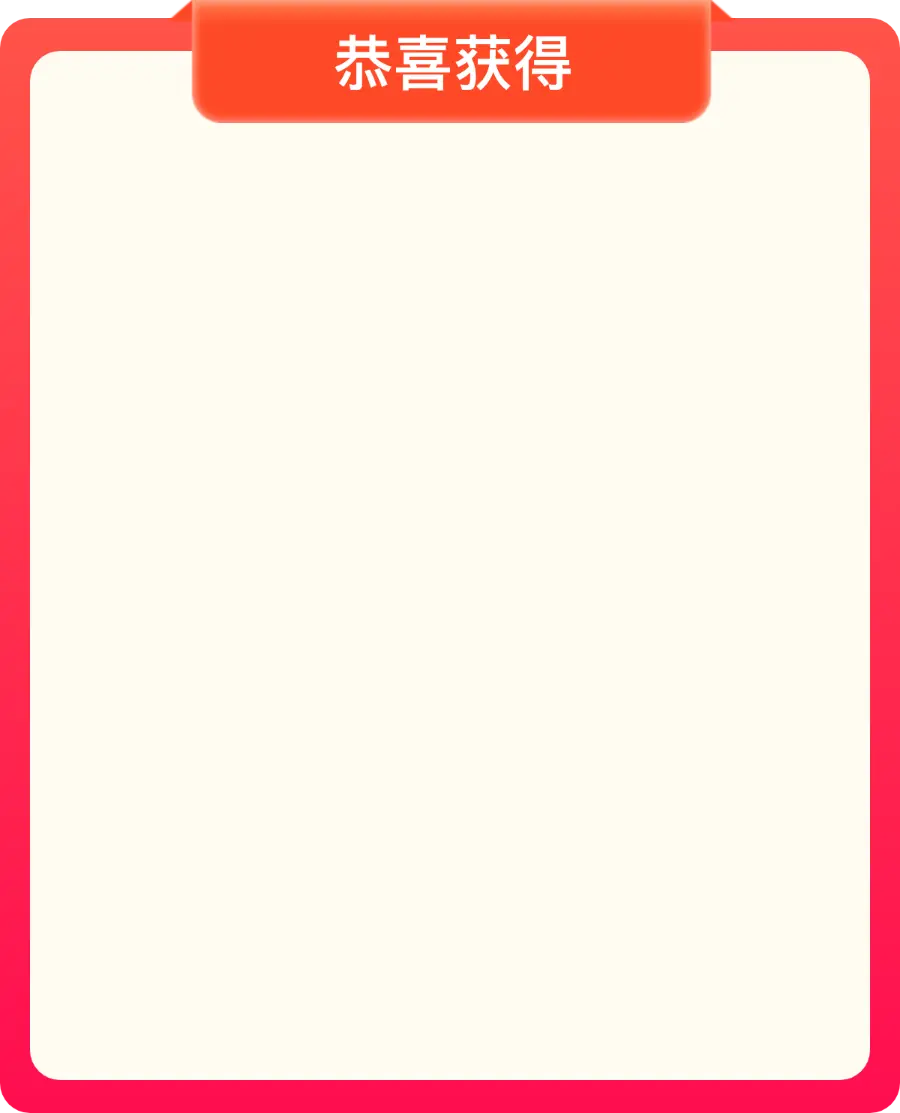
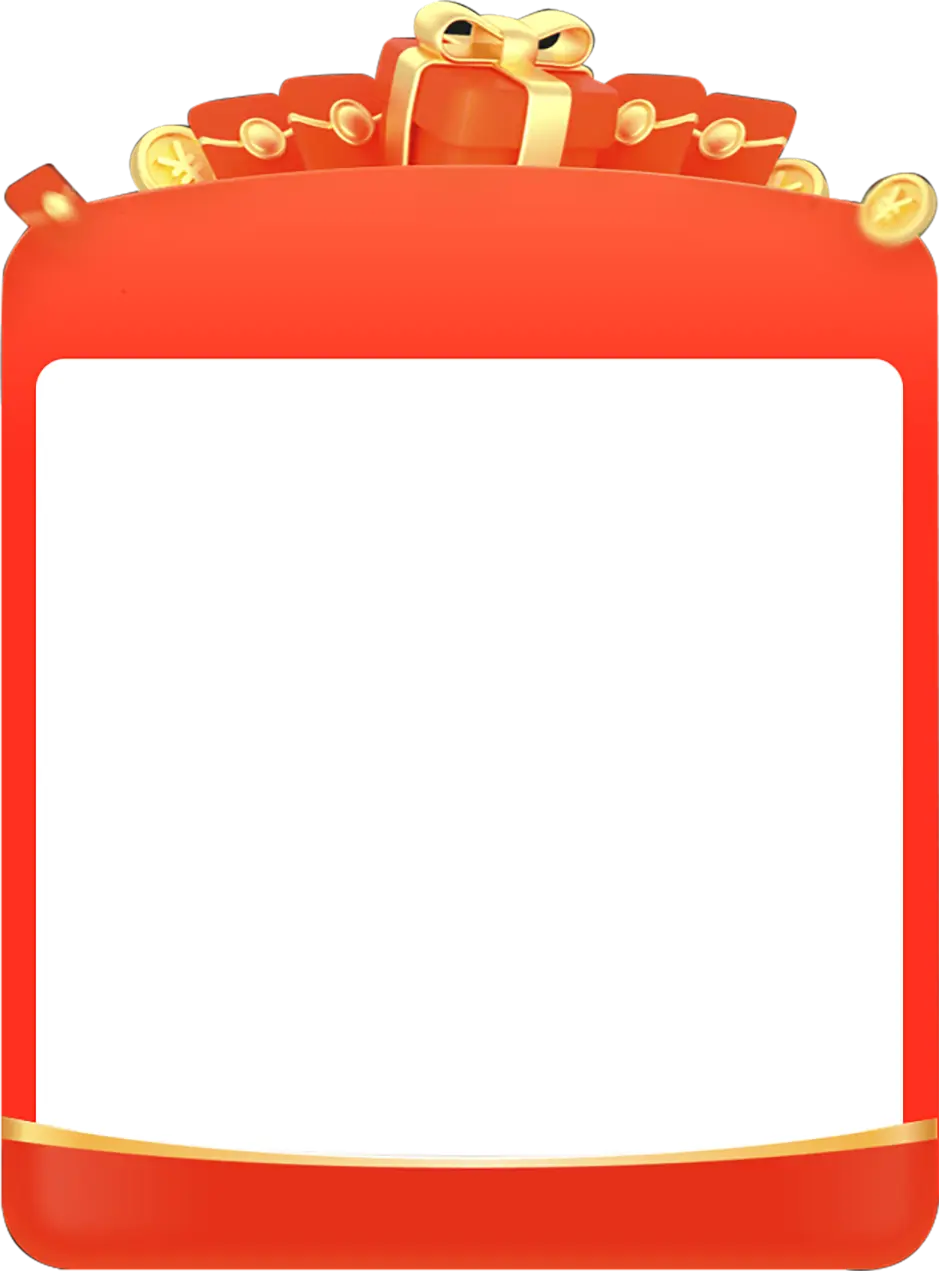
1、ui调整；

diff --git a/lib/ui/my/invite_new_members/invite_new_members_activity_page.dart b/lib/ui/my/invite_new_members/invite_new_members_activity_page.dart
@@ -66,7 +66,7 @@ class _InviteNewMembersActivityPageState extends State<InviteNewMembersActivityP
   }
 
   Widget $BodyView() {
-    final startTop = AppSize.safeTop + (AppSize.appBar - 24) / 2.0;
+    final startTop = AppSize.safeTop + (AppSize.appBar - 24) / 2.0 + 25;
     Widget child = Stack(
       alignment: Alignment.center,
       children: [
@@ -91,18 +91,43 @@ class _InviteNewMembersActivityPageState extends State<InviteNewMembersActivityP
           right: 32,
           height: 60,
           bottom: AppSize.safeBottom + 26,
-          child: XOutlinedBtn(
-            label: '邀请好友获得红包',
-            textStyle: const TextStyle(fontSize: 28, fontWeight: fw$Regular),
-            color: const Color(0xFFFE4A27),
-            side: const BorderSide(color: Color(0xFFFFF3A5), width: 2.0),
-            onTap: () => onItemClick('邀请好友'),
+          child: GestureDetector(
+            onTap: () {
+              onItemClick('邀请好友');
+            },
+            child: Container(
+              width: 321,
+              height: 71,
+              decoration: BoxDecoration(
+                image: DecorationImage(
+                  fit: BoxFit.fill,
+                  image: AssetImage(IMG.format('my/open_btn'))
+                )
+              ),
+              alignment: Alignment.center,
+              child: Text(
+                "邀请好友获得红包",
+                textAlign: TextAlign.center,
+                style: TextStyle(
+                  fontSize: 28,
+                  color: AppPalette.txtWhite,
+                  fontWeight: FontWeight.bold,
+                ),
+              ),
+            ),
           ),
         ),
         Positioned(
           bottom: AppSize.safeBottom + 26 + 60 + 17,
           child: Obx(() {
-            return XText('剩余红包次数:${remainingRedPacketCountRx.value}', style: const TextStyle(fontSize: 12, color: AppPalette.c6, fontWeight: fw$Regular),);
+            return XText(
+              '剩余红包次数:${remainingRedPacketCountRx.value}',
+              style: const TextStyle(
+                fontSize: 12,
+                color: Color(0xFFFF306A),
+                fontWeight: fw$Bold
+              ),
+            );
           }),
         ),
         Positioned(
@@ -112,12 +137,38 @@ class _InviteNewMembersActivityPageState extends State<InviteNewMembersActivityP
           bottom: AppSize.safeBottom + 26 + 60 + 34,
           child: Obx(() {
             bool canOpen = remainingRedPacketCountRx.value > 0;
-            return XOutlinedBtn(
-              label: '拆红包',
-              textStyle: TextStyle(fontSize: 28, color: canOpen ? Colors.white : AppPalette.c9, fontWeight: fw$Regular),
-              color: canOpen ? const Color(0xFFFE4A27) : AppPalette.cc,
-              side: BorderSide(color: canOpen ? const Color(0xFFFFF3A5) : AppPalette.cc, width: 2.0),
-              onTap: () {if (canOpen) onItemClick('拆红包');},
+
+            return GestureDetector(
+              onTap: () {
+                if(Env.isDebug) {
+                  onItemClick('拆红包');
+                  return;
+                }
+                if(!canOpen) {
+                  return;
+                }
+                onItemClick('拆红包');
+              },
+              child: Container(
+                width: 321,
+                height: 71,
+                decoration: BoxDecoration(
+                  image: DecorationImage(
+                    fit: BoxFit.fill,
+                    image: AssetImage(IMG.format(canOpen ? 'my/open_btn' : "my/open_disable"))
+                  )
+                ),
+                alignment: Alignment.center,
+                child: Text(
+                  "拆红包",
+                  textAlign: TextAlign.center,
+                  style: TextStyle(
+                    fontSize: 28,
+                    color: AppPalette.txtWhite,
+                    fontWeight: FontWeight.bold,
+                  ),
+                ),
+              ),
             );
           })
         ),
@@ -160,6 +211,10 @@ class _InviteNewMembersActivityPageState extends State<InviteNewMembersActivityP
           barrierColor: const Color(0x80000000),
           child: const InviteNewMembersMyRewardListSheet(listType: 1,),
           direction: Get.isLandscape ? SheetOrientation.right : SheetOrientation.bottom,
+          decoration: ShapeDecoration(
+            color: Colors.transparent,
+            shape: XRectangleBorder(borderRadius: AppBorderRadius.t12),
+          )
         );
         break;
       case '我的邀请':
@@ -167,9 +222,17 @@ class _InviteNewMembersActivityPageState extends State<InviteNewMembersActivityP
           barrierColor: const Color(0x80000000),
           child: const InviteNewMembersMyRewardListSheet(listType: 2,),
           direction: Get.isLandscape ? SheetOrientation.right : SheetOrientation.bottom,
+          decoration: ShapeDecoration(
+            color: Colors.transparent,
+            shape: XRectangleBorder(borderRadius: AppBorderRadius.t12),
+          )
         );
         break;
       case '拆红包':
+        if(Env.isDebug) {
+          await OpenRedPacketResultDialog.show("111", "");
+          return;
+        }
         var result = await Api.Activity.openEnvelope();
         var giftName = result["name"];
         var giftImageUrl = result["image"];
@@ -195,6 +258,10 @@ class _InviteNewMembersActivityPageState extends State<InviteNewMembersActivityP
   ///
   void refreshLeftOpenCount() async {
     final leftOpenTime = await Api.Activity.queryLeftOpenCount();
+    if(Env.isDebug) {
+      remainingRedPacketCountRx(10);
+      return;
+    }
     remainingRedPacketCountRx(leftOpenTime["count"]);
   }
 }

diff --git a/lib/ui/my/invite_new_members/open_redpacket_result_dialog.dart b/lib/ui/my/invite_new_members/open_redpacket_result_dialog.dart
@@ -29,39 +29,76 @@ class OpenRedPacketResultDialog extends StatelessWidget {
           child: Image.asset(IMG.format('my/pop_gongxihuode_result'), scale: 3),
         ),
         Positioned(
-          top: 81,
+          top: 165,
           child: Obx(() {
-            return NetImage(giftImageName.value, width: 113, height: 86);
+            return NetImage(giftImageName.value, width: 126, height: 126);
           }),
         ),
         Positioned(
-          top: 81 + 86 + 20,
+          top: 309,
           child: Obx(() {
-            return XText(giftName.value, style: TextStyle(fontSize: 16, color: Colors.black, fontWeight: fw$Regular),);
+            return XText(giftName.value, style: TextStyle(fontSize: 24, color: Color(0xFFFF0000), fontWeight: fw$Regular),);
           })
         ),
+
         Positioned(
-          bottom: 36,
-          child: XTextBtn(
-            label: '收下了',
-            width: 140,
-            height: 34,
-            color: const Color(0xFFFE4A27),
-            textStyle: const TextStyle(fontSize: 16, color: Colors.white),
-            onTap: () => onItemClick('收下了'),
-          )
-        ),
-        Positioned(
-            bottom: 36 + 48,
-            child: XTextBtn(
-              label: '再来一次',
-              width: 140,
-              height: 34,
-              color: const Color(0xFFFE4A27),
-              textStyle: const TextStyle(fontSize: 16, color: Colors.white),
-              onTap: () => onItemClick('再来一次'),
-            )
-        ),
+          top: 439,
+          child: Row(
+            children: [
+              GestureDetector(
+                onTap: () {
+                  onItemClick('再来一次');
+                },
+                child: Expanded(
+                  child: Container(
+                    width: 158,
+                    height: 50,
+                    padding: EdgeInsets.only(bottom: 7),
+                    decoration: BoxDecoration(
+                        image: DecorationImage(
+                            fit: BoxFit.fill,
+                            image: AssetImage(IMG.format('my/invite_button_1'))
+                        )
+                    ),
+                    alignment: Alignment.center,
+                    child: Text(
+                      "再来一次",
+                      textAlign: TextAlign.center,
+                      style: TextStyle(fontSize: 20, color: Colors.white),
+                    ),
+                  ),
+                ),
+              ),
+
+              SizedBox(width: 5,),
+
+              GestureDetector(
+                onTap: () {
+                  onItemClick('收下了');
+                },
+                child: Expanded(
+                  child: Container(
+                    width: 158,
+                    height: 50,
+                    padding: EdgeInsets.only(bottom: 7),
+                    decoration: BoxDecoration(
+                        image: DecorationImage(
+                            fit: BoxFit.fill,
+                            image: AssetImage(IMG.format('my/invite_button_1'))
+                        )
+                    ),
+                    alignment: Alignment.center,
+                    child: Text(
+                      "收下了",
+                      textAlign: TextAlign.center,
+                      style: TextStyle(fontSize: 20, color: Colors.white),
+                    ),
+                  ),
+                ),
+              ),
+            ],
+          ),
+        )
       ],
     );
 

diff --git a/lib/ui/my/invite_new_members/invite_new_members_myrewardlist_sheet.dart b/lib/ui/my/invite_new_members/invite_new_members_myrewardlist_sheet.dart
@@ -51,7 +51,7 @@ class _InviteNewMembersMyRewardListSheetState extends State<InviteNewMembersMyRe
               ),
           ],
         ),
-        Spacing.h4,
+        Spacing.h12,
         Expanded(child: ActivityDataView(82, widget.listType),),
       ],
     );
@@ -70,6 +70,7 @@ class _InviteNewMembersMyRewardListSheetState extends State<InviteNewMembersMyRe
       alignment: Alignment.center,
       children: [
         Container(
+          margin: EdgeInsets.symmetric(horizontal: 5),
             height: AppSize.safeBottom + 368,
             decoration: const ShapeDecoration(
               shape: XRectangleBorder(borderRadius: AppBorderRadius.t12),
@@ -82,11 +83,11 @@ class _InviteNewMembersMyRewardListSheetState extends State<InviteNewMembersMyRe
             child: child
         ),
         Positioned(
-          top: -6,
+          top: 10,
           child: Image.asset(IMG.format('my/invite_new_members_sheet_header'), scale: 3),
         ),
         Positioned(
-          top: 0,
+          top: 15,
           child: XText(headerTitle, style: const TextStyle(fontSize: 20, color: Colors.white, fontWeight: fw$SemiBold),),
         ),
       ],
@@ -139,23 +140,35 @@ class _ItemView extends StatelessWidget {
   Widget build(BuildContext context) {
     // final uid = data['uid'];
     // final nuid = Int64(data['role_id']);
-    TextStyle textStyle = const TextStyle(fontSize: 14, color: Colors.black, fontWeight: fw$Regular);
+    TextStyle textStyle = const TextStyle(fontSize: 14, color: AppPalette.txtDark, fontWeight: fw$Regular);
     String value1 = listType == 1 ? data["prize_name"] : data["invite_name"];
-    String value2 = listType == 1 ? data["prize_source"] : data["invite_status"];
-    int value3 = listType == 1 ? data["acquire_at"] : data["register_at"];
+    String value2 = listType == 1 ? data["prize_source"] : DateFormat("yyyy/MM/dd/hh:mm").formatEpoch(data["register_at"]);
+    String value3 = listType == 1 ? DateFormat("yyyy/MM/dd/hh:mm").formatEpoch(data["acquire_at"]) : data["invite_status"];
 
     Widget child = SizedBox(
       height: 50,
-      child: Row(
+      child: Column(
         children: [
-          Expanded(
-            child: XText(value1, maxLines: 2, textAlign: TextAlign.center, style: textStyle,),
+          Container(
+            height: 1,
+            margin: EdgeInsets.symmetric(horizontal: 8),
+            width: double.infinity,
+            color: Color(0xFFE3E7ED),
           ),
           Expanded(
-            child: XText(value2, maxLines: 2, textAlign: TextAlign.center, style: textStyle,),
-          ),
-          Expanded(
-            child: XText(DateFormat("yyyy/MM/dd/hh:mm").formatEpoch(value3), maxLines: 2, textAlign: TextAlign.center, style: textStyle,),
+            child: Row(
+              children: [
+                Expanded(
+                  child: XText(value1, maxLines: 2, textAlign: TextAlign.center, style: textStyle,),
+                ),
+                Expanded(
+                  child: XText(value2, maxLines: 2, textAlign: TextAlign.center, style: textStyle,),
+                ),
+                Expanded(
+                  child: XText(value3, maxLines: 2, textAlign: TextAlign.center, style: textStyle,),
+                ),
+              ],
+            ),
           ),
         ],
       ),

diff --git a/lib/ui/my/invite_new_members/common_share_sheet.dart b/lib/ui/my/invite_new_members/common_share_sheet.dart
@@ -33,8 +33,6 @@ class CommonShareSheet extends StatelessWidget {
     final items = [
       '微信好友',
       '朋友圈',
-      // 'QQ好友',
-      // 'QQ空间',
       '生成二维码',
       '复制链接',
     ];
